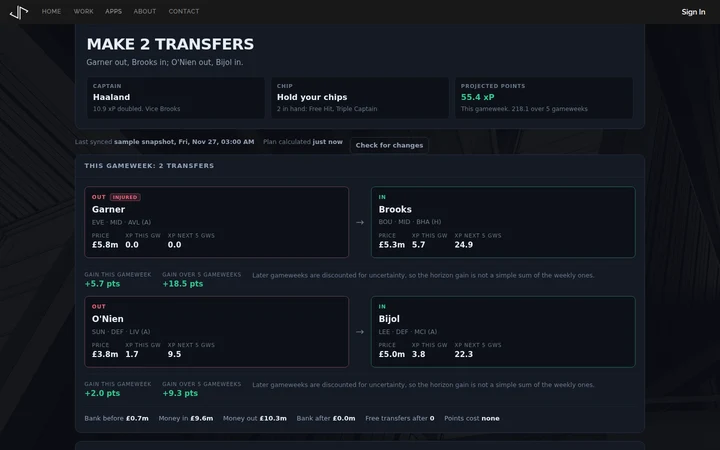
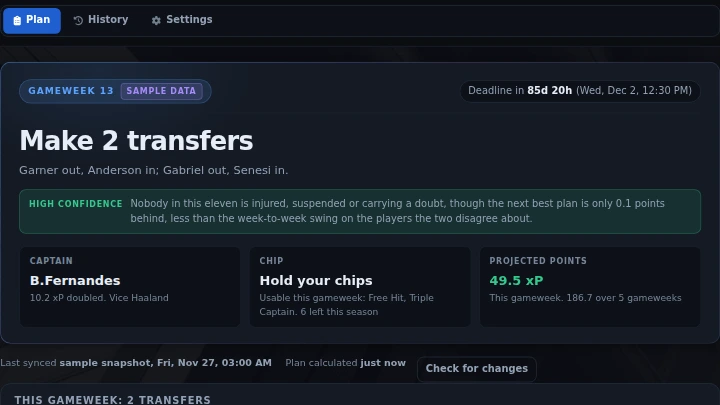
feat(apps hub): one frame for eight screenshots, and two that can be read
The card previews were eight unrelated captures sharing a container. Two of
them (fpl-planner, trip-planner) were whole-page screenshots that included
the site nav and rendered every label unreadably small; the rest were
component captures at six different zooms, several ending mid-element.

The frame now owns all the geometry. Previews are 16:9 with one radius, one
inset hairline, one shadow and one spacing, and each image declares only
where its window sits via --preview-focus and --preview-zoom. The 10% of
height that the 16:9 fit discards is the focal budget: it is what lets
football-h2h stop before its sliced penalty row, gym-tracker drop the PWA tab
bar, maptap-rivals drop the empty quadrant and rising-shows drop the
back-to-top button. Zoom is used only where the waste is at the SIDES
(arena's letterbox, mario-kart's inset chart), because it scales both axes:
zooming to clear a bottom edge sliced "This Week" to "his Week" and
"Breaking Bad" to "aking Bad".

The two unreadable previews are regenerated by a new committed script,
assets/app-previews/build-previews.mjs, through each app's own sanctioned
sample path (?demo=1, "Load an example trip"). It anchors each clip to a
named element rather than to coordinates, so a layout change fails the
capture loudly instead of drifting, and it only ever downscales. Their alt
text is rewritten to describe what the new crops actually show.

Nothing is upscaled anywhere: the widest a preview is painted is 337 px
[…]

diff --git a/apps.html b/apps.html
@@ -229,27 +229,108 @@
       outline: none;
       box-shadow: 0 0 0 2px rgba(32, 68, 201, 0.22);
     }
-    /* The preview link is a block with a definite width so the lazy image
-       inside it has something to resolve its percentage width against. Inside
-       the shrink-to-fit flex card an unloaded image (intrinsic width 0) used
-       to measure 3x2 px and every card below the fold grew 125-190 px as it
+    /* --- Preview thumbnails ---------------------------------------------
+       Every card opens with a screenshot, and the eight sources are not
+       interchangeable: six are hand-captured 16:10 stills of app states that
+       need seeded storage, two are generated 16:9 crops
+       (assets/app-previews/build-previews.mjs). One frame normalises them.
+       The frame owns all the geometry - ratio, radius, hairline, backdrop -
+       and each image declares only WHERE its window sits in the source, via
+       --preview-focus. Nothing is ever scaled up: the widest a preview is
+       ever painted is 337 px against a 720 px file.
+
+       The link is a block with a definite width so the lazy image inside it
+       has something to resolve its percentage width against. Inside the
+       shrink-to-fit flex card an unloaded image (intrinsic width 0) used to
+       measure 3x2 px and every card below the fold grew 125-190 px as it
        scrolled into view; on phones the loaded image also sat at 203 px in a
        310 px card. */
     .highlights .app-preview-link {
       display: block;
+      position: relative;
       width: 100%;
+      margin-bottom: 1.5rem;
+      border-radius: 8px;
+      /* Visible only in the beat before a lazy image paints, so it is the
+         apps' own near-black: a white flash under a dark screenshot reads as
+         a broken image. It also backs the rounded corners, which the image
+         cannot paint into. */
+      background-color: #0b0d12;
+      overflow: hidden;
+      box-shadow:
+        0 1px 2px rgba(16, 22, 36, 0.10),
+        0 10px 24px -16px rgba(16, 22, 36, 0.55);
+    }
+    /* The hairline is drawn INSIDE the frame. A border on the image sits
+       outside object-fit's box, so it rides the element edge rather than the
+       rounded corner and thickens the card by 2px; an inset shadow follows
+       the radius exactly and adds no size, so eight screenshots with eight
+       different edge colours all terminate on the same line. */
+    .highlights .app-preview-link::after {
+      content: "";
+      position: absolute;
+      inset: 0;
+      border-radius: inherit;
+      box-shadow: inset 0 0 0 1px rgba(16, 22, 36, 0.16);
+      pointer-events: none;
     }
     .highlights .app-preview {
       display: block;
       width: 100%;
       min-width: 100%;
       height: auto;
-      aspect-ratio: 16 / 10;
+      /* 16:9, not the stills' native 16:10. That 10% of height is the focal
+         budget: it is what lets a capture whose bottom edge slices a row in
+         half be trimmed back to a clean boundary. */
+      aspect-ratio: 16 / 9;
       object-fit: cover;
-      object-position: top center;
-      border-radius: 6px;
-      margin-bottom: 1.5rem;
-      border: solid 1px rgba(0, 0, 0, 0.08);
+      object-position: var(--preview-focus, 50% 50%);
+      /* The second half of the focal system. object-position can only PAN
+         inside the 10% that the 16:9 fit already discards, which is not
+         enough to clear a PWA tab bar or a row of half-cut posters. scale
+         zooms the window as well, anchored to the same edge the pan uses.
+         It stays sharp because there is so much headroom: the widest a
+         preview is painted is 337 px against a 720 px file, so even a 2x
+         zoom is still resolving a downscale. */
+      scale: var(--preview-zoom, 1);
+      transform-origin: var(--preview-focus, 50% 50%);
+      border-radius: inherit;
+    }
+    /* Where each still's window sits, and how tight it is. Only the captures
+       that need one are listed; the rest take the centred, unzoomed default.
+       fpl-planner and trip-planner are generated at 16:9 from the live app,
+       so their window is the whole file and the default lands on it exactly.
+
+       Zoom is used sparingly and never to trim a bottom edge. It scales both
+       axes, so buying 12% off the bottom also costs 12% off each side, and
+       these captures carry their headings at the top left: zooming to clear
+       gym-tracker's tab bar sliced "This Week" to "his Week", maptap's
+       "Rivalries" to "ries" and rising-shows' "Breaking Bad" to "aking Bad".
+       A sliced heading looks more broken than the artefact it removed, so
+       those three pan only, and zoom is left to the two captures whose waste
+       is at the SIDES, where cropping costs nothing:
+         arena        the globe panel is letterboxed by dark side margins
+         mario-kart   the chart is inset in its panel, padded on both sides
+
+       Pan-only cases, all trimming the discarded 10% off the bottom:
+         football-h2h   bottom edge slices the penalty-wins row mid-tile
+         gym-tracker    bottom edge is the PWA tab bar, not app content
+         maptap-rivals  bottom right is empty background under the third
+                        rival, whose card is also cut
+         rising-shows   bottom edge holds the back-to-top button and two
+                        half-cut posters */
+    .highlights .app-preview[src$="football-h2h.webp"],
+    .highlights .app-preview[src$="gym-tracker.webp"],
+    .highlights .app-preview[src$="maptap-rivals.webp"],
+    .highlights .app-preview[src$="rising-shows.webp"] {
+      --preview-focus: 50% 0%;
+    }
+    .highlights .app-preview[src$="arena.webp"] {
+      --preview-zoom: 1.12;
+    }
+    .highlights .app-preview[src$="mario-kart.webp"] {
+      --preview-focus: 50% 28%;
+      --preview-zoom: 1.12;
     }
   </style>
 </head>
@@ -324,9 +405,9 @@
         </section>
         <section data-category="game" data-keywords="fpl fantasy premier league planner transfers captain starting xi gameweek chips">
           <div class="content">
-            <a class="app-preview-link" href="apps/fpl-planner/" aria-label="Open FPL Planner" tabindex="-1"><img class="app-preview" src="images/app-previews/fpl-planner.webp" width="720" height="450" loading="lazy" decoding="async" alt="FPL Planner gameweek dashboard with the recommended transfer, captain pick and starting XI laid out on a pitch" /></a>
+            <a class="app-preview-link" href="apps/fpl-planner/" aria-label="Open FPL Planner" tabindex="-1"><img class="app-preview" src="images/app-previews/fpl-planner.webp" width="720" height="405" loading="lazy" decoding="async" alt="FPL Planner gameweek decision card recommending two transfers, alongside the captain pick, chip advice and projected points" /></a>
             <header>
-              <a href="apps/fpl-planner/" class="icon fa-calendar-check-o brand-color-primary" aria-label="Open FPL Planner"></a>
+              <a href="apps/fpl-planner/" class="icon fa-list-ol brand-color-primary" aria-label="Open FPL Planner"></a>
               <h3>FPL Planner</h3>
             </header>
             <p>Plan your FPL gameweek from your Team ID: transfers or roll, hits, starting XI and bench order, captain and chips - with the numbers behind every recommendation.</p>
@@ -389,7 +470,7 @@
         </section>
         <section data-category="travel" data-keywords="trip planner travel itinerary flights hotels map costs visa weather">
           <div class="content">
-            <a class="app-preview-link" href="apps/trip-planner/" aria-label="Open Trip Planner" tabindex="-1"><img class="app-preview" src="images/app-previews/trip-planner.webp" width="720" height="450" loading="lazy" decoding="async" alt="Trip Planner itinerary timeline with flights and hotel stays, night coverage strip, status pills, and a confirmed bookings total" /></a>
+            <a class="app-preview-link" href="apps/trip-planner/" aria-label="Open Trip Planner" tabindex="-1"><img class="app-preview" src="images/app-previews/trip-planner.webp" width="720" height="405" loading="lazy" decoding="async" alt="Trip Planner itinerary timeline of a Croatia trip, each flight, ferry and hotel row showing its dates, a booked status pill and its cost" /></a>
             <header>
               <a href="apps/trip-planner/" class="icon fa-map brand-color-primary" aria-label="Open Trip Planner"></a>
               <h3>Trip Planner</h3>

diff --git a/apps/fpl-planner/FINDINGS.md b/apps/fpl-planner/FINDINGS.md
@@ -1169,15 +1169,29 @@ with chips ON: +0 on all 72 trajectories, both instruments.
   apps.html card mark until 2026-09-07, when the owner asked for the card to
   match the other seven: a 5rem image tile read as bigger and heavier next to
   seven thin blue glyphs. Every card now uses a Font Awesome glyph in
-  `brand-color-primary`; FPL Planner's is `fa-calendar-check-o`, matching the
-  card's own CTA ("Plan My Gameweek"). The per-card `.app-logo` CSS override
-  in apps.html went with the image. Note `fa-clipboard` was tried first and
-  rejected on sight: in FA 4.7 it is aliased to `fa-paste` and renders as two
-  overlapping pages, which reads as copy/paste, not planning. The PNG is kept
+  `brand-color-primary`; FPL Planner's is `fa-list-ol` (the owner's pick), the
+  numbered list standing for the ranked starting XI and bench order. The
+  per-card `.app-logo` CSS override in apps.html went with the image. Two
+  glyphs were tried and dropped on the way: `fa-clipboard`, which in FA 4.7 is
+  aliased to `fa-paste` and renders as two overlapping pages, so it reads as
+  copy/paste rather than planning, and `fa-calendar-check-o`. The PNG is kept
   but unreferenced. Both images were cropped from larger uploads to rounded
   tiles with transparent corners and palette-quantized (11 KB / 3 KB); the
   originals are deleted, so reviving the logo means re-cropping new art, not
   tweaking a source file.
+- **The apps-hub preview is generated, not art: do not hand-edit it.**
+  `images/app-previews/fpl-planner.webp` comes from
+  `assets/app-previews/build-previews.mjs`, which loads `?demo=1`, hides the
+  `.fpl-sample-banner` (demo-mode scaffolding, not product), and clips a 16:9
+  window centred on `.fpl-hero`. The banner has to go or the top third of the
+  thumbnail is a disclaimer; the DATA is still the sample dataset either way,
+  which is what the sample-data-only rule in the root README is about. The
+  clip is anchored to `.fpl-hero` rather than to coordinates, so if that class
+  is renamed the script throws instead of silently shipping a crop of the
+  wrong thing. Before 2026-09-07 this preview was a hand-captured whole-page
+  screenshot that included the site nav and rendered every label unreadably
+  small; the hub's own framing cannot rescue a capture like that, because
+  reaching legibility needs roughly a 3x upscale of a 720px file.
 - **Emphasized sentences are multiple inline nodes, and flex containers wedge
   them apart.** `parts.js emphasize()` splits an engine sentence into text
   fragments and `<strong>` spans; any list item styled `display: flex` with

diff --git a/apps/trip-planner/FINDINGS.md b/apps/trip-planner/FINDINGS.md
@@ -3737,3 +3737,18 @@ were ALL told "reserved" and 49 reservations were lost. See the root
 `FINDINGS.md` entry and `netlify/functions/tests/blobs-version.test.mjs`; the
 package is now `^10.7.13`, the first version whose `setJSON` puts the condition
 on the wire, and the claim above is true as of that bump.
+
+- **The apps-hub preview is generated, not art: do not hand-edit it.**
+  `images/app-previews/trip-planner.webp` comes from
+  `assets/app-previews/build-previews.mjs`, which loads the app, clicks "Load
+  an example trip" in the Timeline empty state, hides the resulting toast, and
+  clips a 16:9 window over `#board`. The clip snaps to whole itinerary rows:
+  it starts at the top of the first row and ends at the first row boundary AT
+  OR PAST the 16:9 height, never one short of it. Stopping short is the
+  tempting bug, and it is what the first version did: a shorter clip forces a
+  narrower one to keep 16:9, and since `#board` fills the column that narrower
+  window crops the rows horizontally, cutting the type icons off one edge and
+  the prices off the other. Going long instead pads with page background,
+  which is uniform, so it costs nothing. Before 2026-09-07 this preview was a
+  hand-captured whole-page screenshot including the site nav, at a scale where
+  no row was readable.

diff --git a/README.md b/README.md
@@ -143,8 +143,15 @@ fails, fix the ordering rather than the test.
 9. `netlify.toml` - redirects only if a path moved.
 10. `assets/og/cards.json` entry + `node assets/og/build-og-cards.mjs <slug>`
    (commit the generated `images/og/<slug>.png`).
-11. `images/app-previews/<slug>.webp` (720x450) - rendered from SAMPLE data
-    only, never a real user's content.
+11. `images/app-previews/<slug>.webp` (720x405, 16:9) - rendered from SAMPLE
+    data only, never a real user's content. If the app has a one-click sample
+    state, add it to `assets/app-previews/build-previews.mjs` and run
+    `node --experimental-websocket assets/app-previews/build-previews.mjs
+    <slug>` rather than capturing by hand: the script anchors the crop to a
+    named element, so the framing matches the rest of the hub and a layout
+    change makes the capture fail loudly instead of drifting. Apps whose
+    interesting state needs hand-seeded storage stay hand-captured; the hub
+    frames whatever it is given (see the preview block in `apps.html`).
 12. Root `README.md` - repo tree line + Apps table row above.
 13. `package.json` - aggregate `test` script list + `test:<slug>`.
 14. `sync-system/app-sync-init.js` - namespace + URL routing (only if the app
